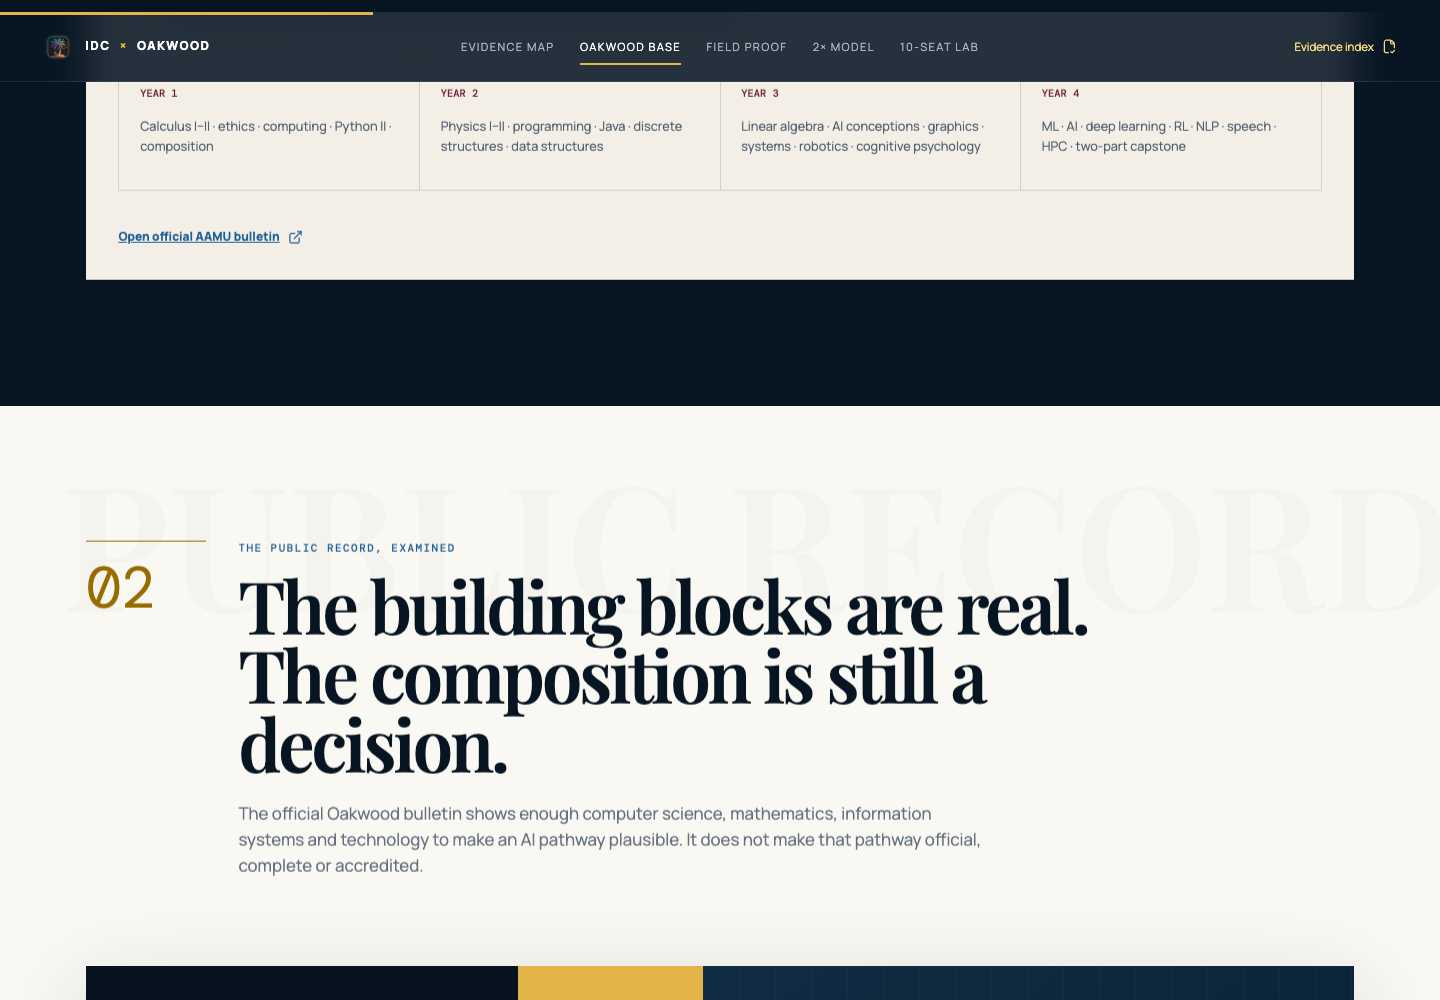
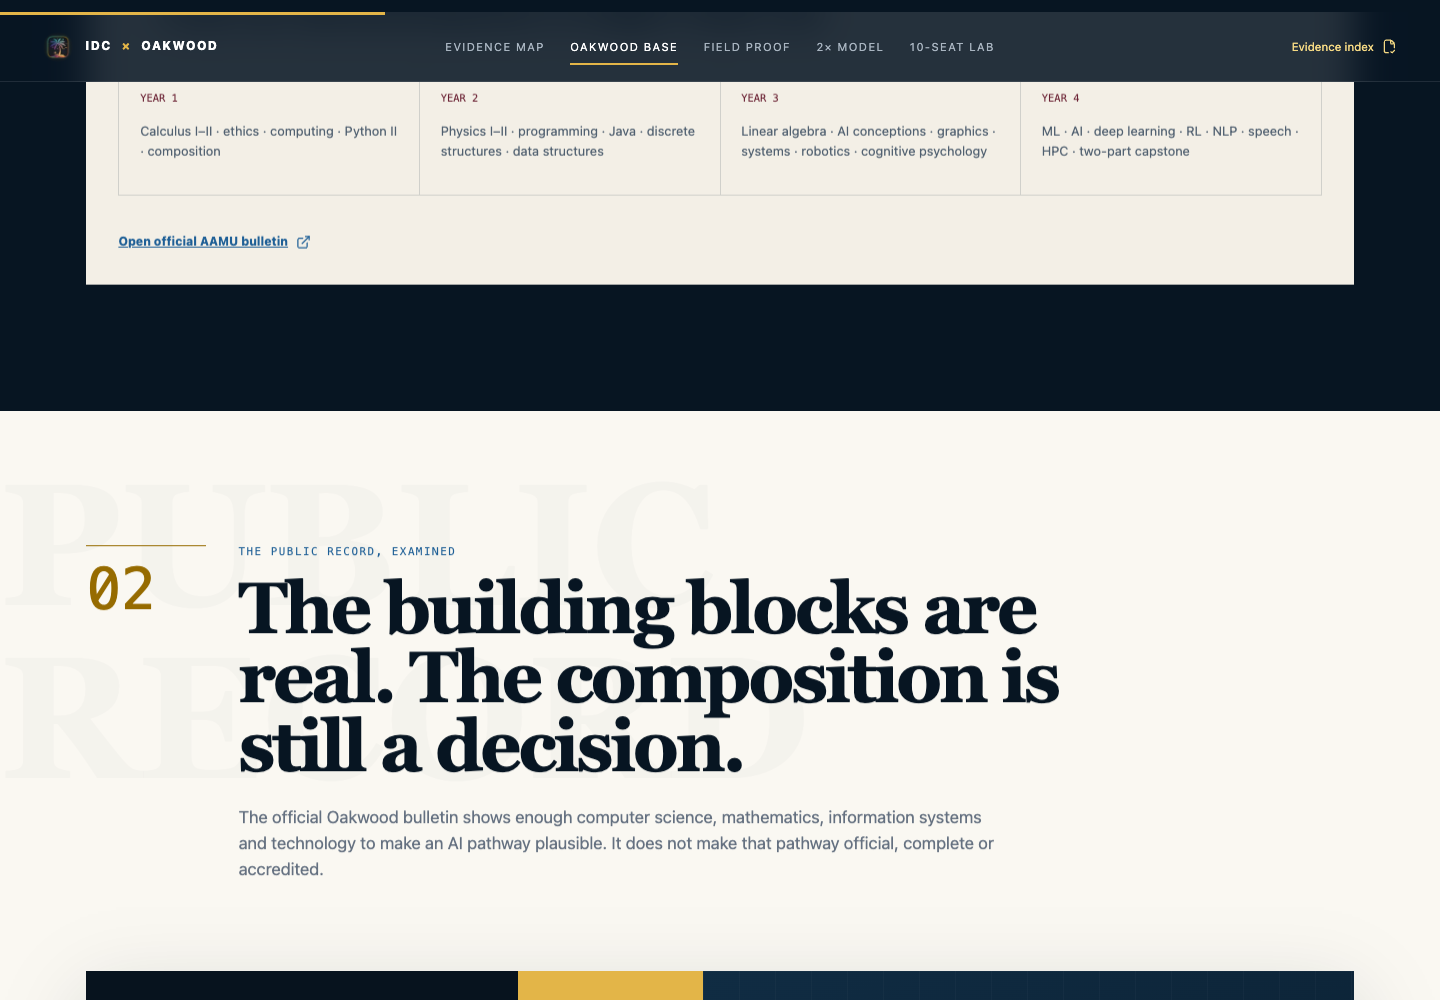
Record deployed strict mobile correction

diff --git a/docs/IMMERSIVE_MOTION_GAUNTLET.md b/docs/IMMERSIVE_MOTION_GAUNTLET.md
@@ -173,4 +173,4 @@ These are internal blind-frame scores, not a substituted independent reviewer ve
 
 ## Release status
 
-**Corrected application commit `aba64ee` passes coded technical, provenance, portable-delivery, and internal frame gates. It is deployed only to `idc-plans-for-oakwood-immersive.vercel.app`; canonical production remains unchanged and was directly verified to retain its prior hero and to have no `#foundation` section.** The first delayed critic's 6.6/10 verdict applies to superseded commit `e88556e`, not this deployment. A fresh independent final-candidate audit (`deleg_000acd0f`) is pending; no independent Tier-3 pass is claimed unless every axis returns at least 8.1.
+**Responsive correction commit `2444a72` passes coded technical, provenance, portable-delivery, internal-frame, and mobile-signature-clearance gates. It is deployed only to `idc-plans-for-oakwood-immersive.vercel.app`; canonical production remains unchanged and was directly verified to retain its prior hero and to have no `#foundation` section.** The exact-candidate independent audit passed six axes but failed Mobile promise at 7.3. Both cited defects are corrected and deployed; a focused independent rerun is pending. No independent Tier-3 pass is claimed unless every axis returns at least 8.1.
